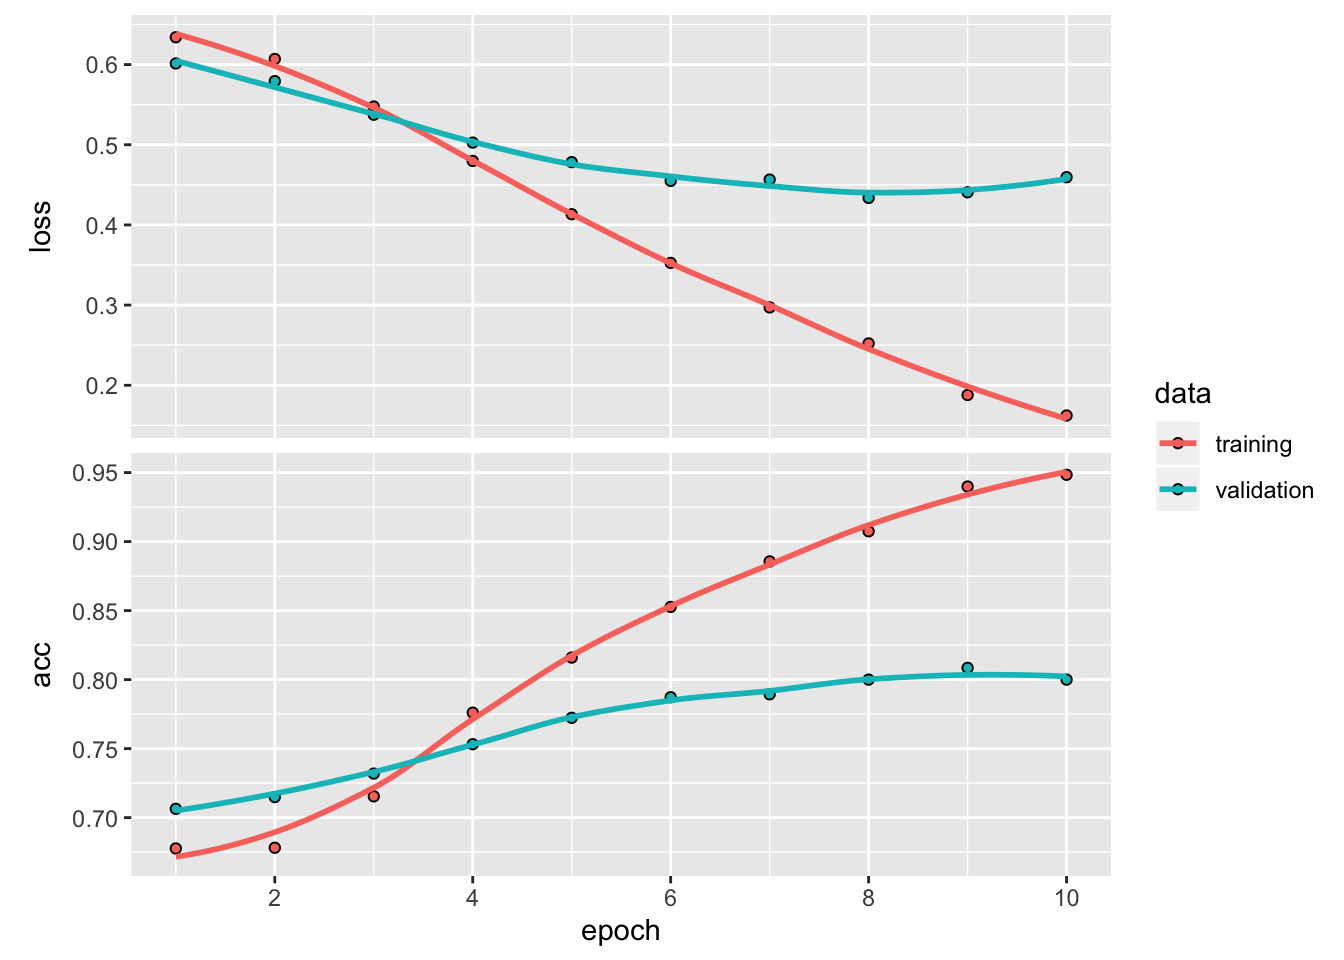
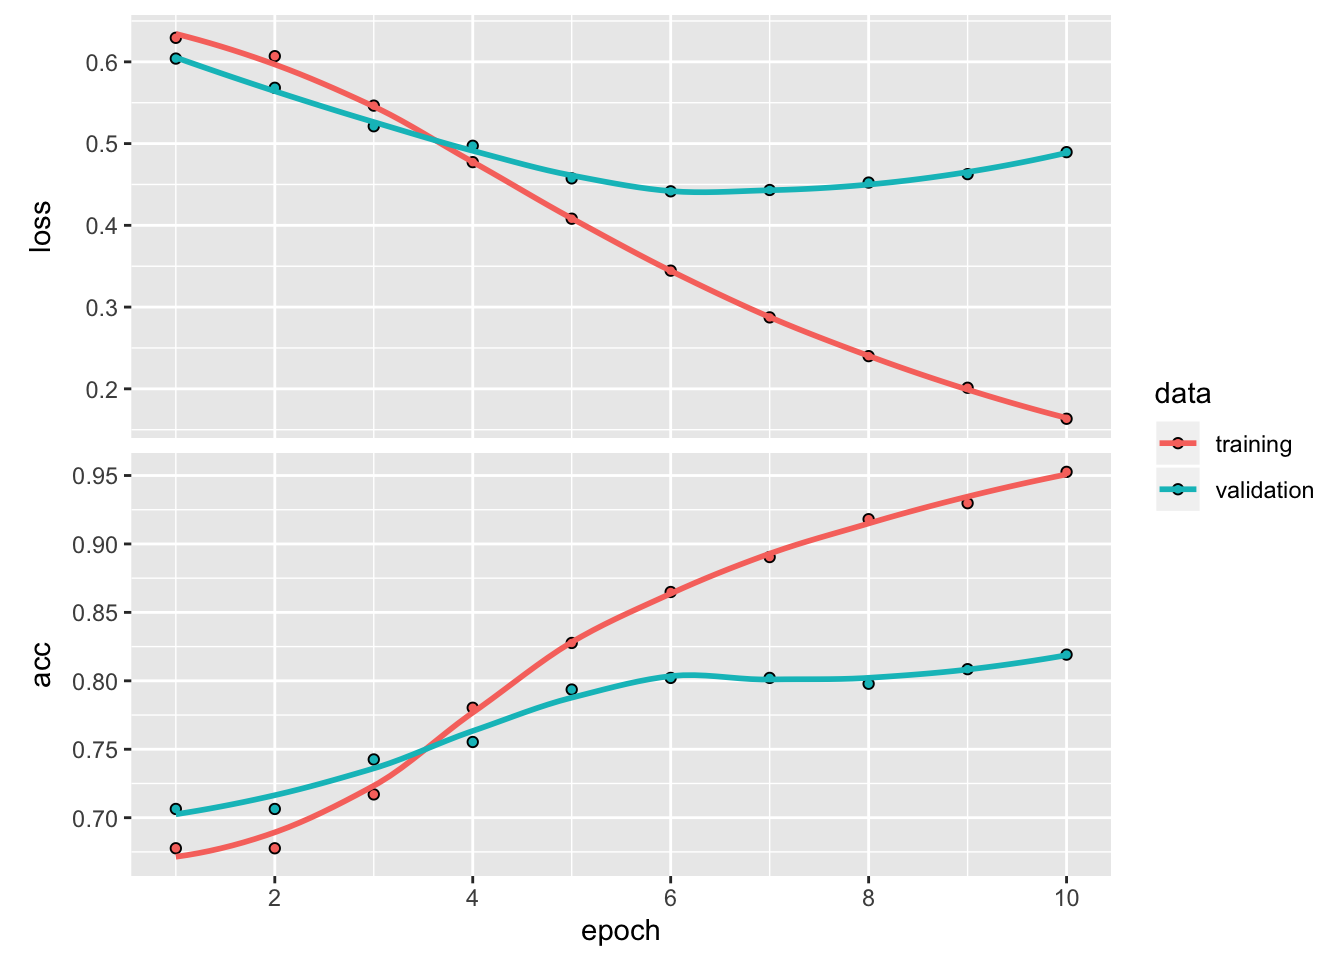
update post

diff --git a/content/post/2019-04-26-grand-floridian-hotel-reviews.html b/content/post/2019-04-26-grand-floridian-hotel-reviews.html
@@ -10,7 +10,6 @@ tags:
   - keras
 ---
 
-<script src="/rmarkdown-libs/kePrint/kePrint.js"></script>
 
 
 <div id="grand-floridian-hotel-reviews-sentiment-analysis-and-nlp" class="section level2">
@@ -34,58 +33,7 @@ mutate(rating = as.factor(rating))
 #change stay_date variable from character to date type
 
 rdf$stay_date &lt;- gsub(&quot;Date of stay: &quot;, &quot;&quot;, rdf$stay_date)
-rdf$stay_date &lt;- as.yearmon(rdf$stay_date, &quot;%b %Y&quot;)
-kable(head(rdf,3)) %&gt;% kable_styling(bootstrap_options = &quot;striped&quot;, full_width = F,font_size = 8) </code></pre>
-<table class="table table-striped" style="font-size: 8px; width: auto !important; margin-left: auto; margin-right: auto;">
-<thead>
-<tr>
-<th style="text-align:left;">
-rating
-</th>
-<th style="text-align:left;">
-stay_date
-</th>
-<th style="text-align:left;">
-review
-</th>
-</tr>
-</thead>
-<tbody>
-<tr>
-<td style="text-align:left;">
-5
-</td>
-<td style="text-align:left;">
-Apr 2019
-</td>
-<td style="text-align:left;">
-We have stayed throughout the Deluxe resorts on Disney property. We are a Disney family and have “grown up” in our accommodation needs starting at Animal Kingdom, through the Epcot resorts and this year, our first year staying at the Grand Floridian. With older kids, we decided to make this our home for our stay this year and we couldn’t have made a better choice. The main lobby is impressive and part way through our stay the easter eggs made their impressive appearance for the next few weeks. Dumbo on a Marbled egg is simply amazing!We arrived by Uber this year and we were, as typical for the Deluxe Resorts, greeted immediately by name and handed off to a cast member that would help with the check-in process. We were staying on the “club level” which we have always done (in anyone wants to know why, ping me… it is a HUGE benefit when executed properly). We were there early, so our luggage was handled and we were brought directly to the Club building where we could start our day and informed that when our room was ready, we would be notified by text and through the Disney app. The family split up to pools, and monorail rides to enjoy Disney. And fairly early in the afternoon, our room was ready. The rooms are a bit larger in Grand Floridian than they are in some of the other resorts and they make good use of that space. Two queen beds and a single pullout bed made life easy for us. Later that evening, we were planning to head out to watch the fireworks from the grounds but realized we could stand on our balcony and have a clear view which was great! There are better views for sure, but you can’t beat getting back into your room at 9:33 pm literally seconds after the fireworks end.Access to transportation is great with so many options from this resort. Monorail, boat or bus (or the Minnie-Van’s ;) ) to get you to where you need to go. I’m not sure if we were just lucky this year, but we never waited more than 5 minutes for any type of transportation. We used all of the pools during our stay and although crowded, we always (eventually) found a spot to sit back and relax. Virgin Strawberry Daiquiris were a hit (and a snack credit!!). The pools were clean and well managed to say the least and the constant activities available at the smaller pool was so much fun to watch. The “Club Level” at Grand Floridian was without question the best of any that we have experienced. Although a bit smaller than some, the quality of the options was amazing. Even Mickey waffles in the mornings for those looking for a bit heartier start to the day. There is rarely anything but raves regarding the staff at the Deluxe resorts and this stay was no different if not a step up. I’m not sure if there is a process or approach to who goes where but everyone was awesome!There are plenty of shops in the resort to keep you in whatever you need and regardless, spend some time just enjoying the main lobby while you are there. The restaurant count is greater than any other resort (I think) although some on the high end of the range, but certainly options for everyone. We ended our stay with a trip back to the airport on Disney’s Magical Express and as has been with every time using this service, it was flawless! A great Disney Resort that deserves its reputation!
-</td>
-</tr>
-<tr>
-<td style="text-align:left;">
-5
-</td>
-<td style="text-align:left;">
-Oct 2018
-</td>
-<td style="text-align:left;">
-This was our second stay at the Grand Floridian. This stay we were in the Main Building Club Level. The resort’s attention to detail is extraordinary. Our room was clean and spacious with a wonderful view of Magic Kingdom. The staff was very accommodating during the stay. There is a fitness center and spa on property, and the location on the monorail makes it very convenient.
-</td>
-</tr>
-<tr>
-<td style="text-align:left;">
-5
-</td>
-<td style="text-align:left;">
-Mar 2019
-</td>
-<td style="text-align:left;">
-Family Vacation dreams come true. We have always wanted to stay at Grand Floridian and this time we finally were able to. The Grand Floridian was very clean and we were able to get a great nights rest thanks to the very comfortable beds. My children loved the hidden murphy bed so much they traded out each night on who would sleep on it. We loved that upon our arrival we went down to the dock to watch the fireworks from Magic Kingdom and we could even hear all the music from speakers on the dock. We can not be more happy about out stay here.
-</td>
-</tr>
-</tbody>
-</table>
+rdf$stay_date &lt;- as.yearmon(rdf$stay_date, &quot;%b %Y&quot;)</code></pre>
 <p>Above we see three example reviews.
 Now we can plot the share each rating category (1-5) over time.</p>
 <pre class="r"><code>rdf %&gt;% 
@@ -391,10 +339,10 @@ model %&gt;% summary()</code></pre>
 print(hist)</code></pre>
 <pre><code>## Trained on 1,880 samples, validated on 470 samples (batch_size=32, epochs=10)
 ## Final epoch (plot to see history):
-## val_loss: 0.5416
-##  val_acc: 0.7787
-##     loss: 0.181
-##      acc: 0.9404</code></pre>
+## val_loss: 0.5454
+##  val_acc: 0.7894
+##     loss: 0.1847
+##      acc: 0.9346</code></pre>
 <pre class="r"><code>plot(hist)</code></pre>
 <p><img src="/post/2019-04-26-grand-floridian-hotel-reviews_files/figure-html/unnamed-chunk-22-1.png" width="672" />
 The training loss decreases with each epoch, while the accuracy increases. However, the validation data does not show this same trend, which indicates that we are overfitting. The right number of epochs appears to be 6. Considering the fact that we only use the 1000 most common words and cut reviews off at 100 words, our model is fairly accurate (peaking at around 80% on the validation set). However, we can likely increase this by increasing the feature space and length of review considered.</p>
@@ -434,10 +382,10 @@ model %&gt;% compile(
 print(hist)</code></pre>
 <pre><code>## Trained on 1,880 samples, validated on 470 samples (batch_size=32, epochs=10)
 ## Final epoch (plot to see history):
-## val_loss: 0.4595
-##  val_acc: 0.8
-##     loss: 0.1623
-##      acc: 0.9484</code></pre>
+## val_loss: 0.4895
+##  val_acc: 0.8191
+##     loss: 0.1634
+##      acc: 0.9527</code></pre>
 <pre class="r"><code>plot(hist)</code></pre>
 <p><img src="/post/2019-04-26-grand-floridian-hotel-reviews_files/figure-html/unnamed-chunk-25-1.png" width="672" /></p>
 <p>Again, 6 appears to be the right number of epochs–beyond this we are overfitting. Although validation accuracy improves to about 84% (a 4% increase from the previous model), there is a tradeoff in that this model takes more than 2 times the amount of time to train. If rapid classification is necessary, the smaller feature space performance may be sufficient.</p>
